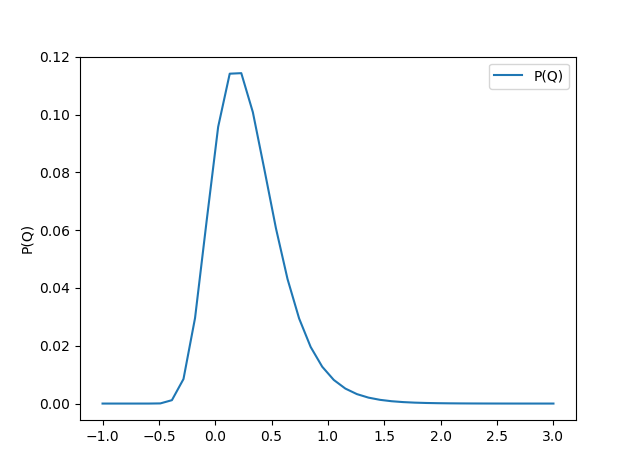
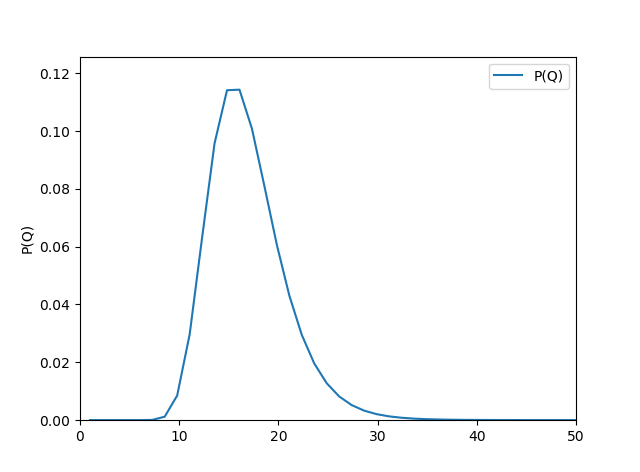
new plots & garbage removal
removed commented out and depricated code.
Made the P(n)/P(Q) plots look better

diff --git a/COBE-DMR/cmb_likelihood_utils.py b/COBE-DMR/cmb_likelihood_utils.py
@@ -1,19 +1,4 @@
-# ****************************************************************
-#       Utility module for cmb_likelihood.py
-# ****************************************************************
-#
-#   The module contains the following functions, usage being
-#   returned_quantity = function(arguments)
-#
-#      N_cov    = get_noise_cov(rms)
-#      F_cov    = get_foreground_cov(x,y,z)
-#      C_ell    = get_C_ell_model(Q,n,lmax)
-#      polys    = get_legendre_coeff(lmax)
-#      P_ell_ij = get_legendre_mat(lmax,x,y,z)
-#      S_cov    = get_signal_cov()
-#      lnL      = get_lnL()
-#
-#
+# Utility module for cmb_likelihood.py
 
 
 import numpy as np
@@ -49,13 +34,9 @@ def get_foreground_cov(x,y,z):
 
 def get_C_ell_model(Q,n,lmax):
     """
-    To be completed:
     Recursively compute a model power spectrum, C_ell, given the amplitude and
     spectral index parameters Q and n, on the range ell in [0,lmax],
     but with monopole and dipole terms set to 0.
-    #C_ell[l] = gamma(l + ((n-1.0)/2.0))/gamma(l+((5.0-n)/2.0))
-    #C_ell = C_ell*(4.0*np.pi/5.0)*(Q**2)*(gamma((9.0-n)/2.0)/gamma((3.0+n)/2.0))
-    #C_ell[2] = ((4.0*np.pi)/(5.0*Q**4))
     """
     # 1: Define array for power spectrum
     C_ell = np.zeros(lmax+1)
@@ -106,40 +87,15 @@ def get_legendre_mat(lmax,x,y,z):
 
 def get_signal_cov(C_ell, beam, pixwin, p_ell_ij):
     '''
-    To be completed:
     Compute a (ndata,ndata) signal covariance matrix using the
     model power spectrum, instrument beam and pixel window function, and
     precomputed Legendre polynomials as input
 
-    Hint: This can be done using a triple for-loop, but it is not necessary.
-    Using NumPy array operations may get you a significant speed-up.
-    # 1: Compute all the elements of the sum over ell, as arrays     
-    # 2: Assemble a single array with all the ell terms which are independent of (i,j)        
-    # 3: Compute the covariance matrix by an appropriate inner product
- 
- 
-    #First self-made method
-    #S_cov = np.zeros((len(p_ell_ij),len(p_ell_ij[0])))#np.zeros_like(p_ell_ij[:,:,0])
-    #for l in range(lmax):
-    #    S_cov[:,:] += (2*l+1)*(beam[l]*pixwin[l])**2*C_ell[l]*p_ell_ij[:,:,l] #S_l[l]*
-
-    #hans-petter's method
-    #S_cov = np.zeros_like(p_ell_ij[:,:,0])
-    #l = np.arange(lmax+1)
-    #for l in range(lmax):
-    #    S_cov[:,:] += (2.*l + 1.)*(np.power(beam[l]*pixwin[l],2))*C_ell[l]*p_ell_ij[:,:,l]
-
-    #daniel's method
-    S_cov = np.zeros_like(p_ell_ij[:,:,0])    
-    for i,j in zip(range(len(p_ell_ij)),range(len(p_ell_ij[0]))): #zip(range(p_ell_ij.shape[0]),range(p_ell_ij.shape[1])):
-        for l in range(lmax):
-            S_cov[i,j] += (2*l + 1)*(beam[l]*pixwin[l])**2*C_ell[l]*p_ell_ij[i,j,l] 
-    
     '''
     lmax = len(C_ell)      
     ll = np.arange(lmax)
 
-    ell_dep_array = (2*ll + 1)*(beam*pixwin)**2*C_ell#np.array([((2*ell + 1)*(beam*pixwin)**2*C_ell),]*(p_ell_ij.shape[1])) 
+    ell_dep_array = (2*ll + 1)*(beam*pixwin)**2*C_ell #np.array([((2*ell + 1)*(beam*pixwin)**2*C_ell),]*(p_ell_ij.shape[1])) 
     S_cov = np.einsum('ijl,...l->ij',p_ell_ij,ell_dep_array)
 
     #print S_cov
@@ -148,28 +104,12 @@ def get_signal_cov(C_ell, beam, pixwin, p_ell_ij):
 
 def get_lnL(data, cov):
     '''
-    To be completed:
     Compute the quantity -2*lnL using the complete covariance matrix
     C = S+N+F, and the input data vector.
 
-    Hint: This can be done directly by inverting the covariance matrix
-    and computing a determinant, calling suitable NumPy or SciPy routines.
-    Significant speedup can be gained by rather using the Cholesky decomposition
-    method discussed in the project description notes.
-     
-    #depricated
-    #L = np.array(L)
-    #c = np.mean(np.diag(L))
-    #L = L/c
-    #print c
-    #print len(L[0])*np.log(c)
-    
-    #detA = 2*np.linalg.slogdet(L)[1]
-    #detA = len(L[0])*np.log(c)*detL
-    #detA = detA**2
     '''
  
-    # 1: Cholesky-decompose C into a lower triangular matrix L, using scipy.linalg.cholesky
+    # 1: Cholesky-decompose C into a lower triangular matrix L
     L = spl.cholesky(cov, lower=True)
 
     # 2: Compute log(det(C)) from L
@@ -184,12 +124,9 @@ def get_lnL(data, cov):
     chi_inv = np.dot(np.transpose(x),x)
     chi_sq = np.dot(np.dot(np.transpose(data),chi_inv),data)
 
-    print "chi_sq = ",chi_sq
-    
-    #if not -1e3<chi_sq<8e4:
-    #    print "There may be something wrong, got chi value of %g" %chi_sq
-        
+    #print "chi_sq = ",chi_sq
+      
     result = chi_sq + detA
-    print "lnL=",result
+    #print "lnL=",result
     return result
 

diff --git a/COBE-DMR/plot_contours.py b/COBE-DMR/plot_contours.py
@@ -1,9 +1,4 @@
-# Simple contour plotting script for visualizing the lnL computed by
-# cmb_likelihood.py. 
-# For convenience, it takes as input either the .npy file or the .dat file.
-# In the .dat case you also have to supply the number of grid points in each 
-# direction so that we can define the grid correctly.
-
+# Simple contour plotting script for visualizing the lnL computed by cmb_likelihood.py. 
 import numpy as np
 import matplotlib.pyplot as plt
 import sys
@@ -38,8 +33,7 @@ if __name__ == "__main__":
 
     # For a Gaussian distribution, the 1, 2 and 3 sigma (68%, 95% and
     # 99.7%) confidence regions correspond to where -2 lnL increases by
-    # 2.3, 6.17 and 11.8 from its minimum value. 0.1 is close to the
-    # peak. 
+    # 2.3, 6.17 and 11.8 from its minimum value. 0.1 is close to the peak. 
     my_levels = [0.1, 2.3, 6.17, 11.8]
     cs = plt.contour(qgrid,ngrid, -2.*lnL, levels=my_levels) #, colors='k'
     plt.grid()
@@ -55,32 +49,28 @@ if __name__ == "__main__":
 
     
     
-    # exponentiate, and subtract off the biggest
-    # value to avoid overflow and find P(d| Q,n)    
+    # exponentiate, and subtract off the biggest value to avoid overflow
     P = np.exp(lnL_init-np.max(lnL_init))  
-    dn = n_values[1] - n_values[0]
-    dQ = Q_values[1] - Q_values[0]
+    dn = n_values[1] - n_values[0] #(n_values[len(n_values)-1] - n_values[0])/len(n_values)
+    dQ = Q_values[1] - Q_values[0] #(Q_values[1] - Q_values[0])/len(Q_values)
     
     # Normalize to unit integral    
     P = P / (np.sum(P)*dn*dQ)    
     
-    # Compute marginal distribution, P(n|d)
-    n_num = len(n_values)
-    P_n = np.zeros(n_num)
-    P_Q = np.zeros(n_num)
-    for i in range(0, n_num):
-        # integrate to get P_n, for P_Q be sure to integrate
-        # over the other dimension in P!
+    # Compute marginal distribution, P(n|d) 
+    P_n = np.zeros(len(n_values))
+    P_Q = np.zeros(len(Q_values))
+    for i in range(0, len(n_values)):
         P_n[i] = np.sum(P[:,i])  
         P_Q[i] = np.sum(P[i,:])
     
-    # We now normalize (note the dn - replace for P_Q!)   
+    # We now normalize 
     P_n = P_n / (sum(P_n) * dn)  
     P_Q = P_Q / (sum(P_Q) * dQ)  
     
     # We can now compute the mean mu and  the uncertainty sigma
     mu_n = sum(P_n * n_values)*dn                    
-    sigma_n = np.sqrt(sum(P_n * (n_values-mu_n)**2)*dn)                 
+    sigma_n = np.sqrt(sum(P_n*(n_values-mu_n)**2)*dn)                 
     print "   mu_n =",mu_n  
     print "sigma_n =",sigma_n,"\n"
     
@@ -92,9 +82,11 @@ if __name__ == "__main__":
     plt.plot(n_values,P_n)
     plt.xlabel("n") 
     plt.ylabel("P(n)") 
+    plt.axis([-1,3, min(P_n), max(P_n)*1.1])
     plt.legend(["P(n)"]) 
     plt.show() 
-    plt.plot(n_values,P_Q)   
+    plt.plot(Q_values,P_Q) 
+    plt.axis([0,50,min(P_Q), max(P_Q)*1.1])  
     plt.ylabel("P(Q)")  
     plt.legend(["P(Q)"]) 
     plt.show() 

diff --git a/COBE-DMR/cmb_likelihood.py b/COBE-DMR/cmb_likelihood.py
@@ -10,8 +10,6 @@ if __name__ == "__main__":
         sys.exit()
 
     # Reading parameters from param file into namespace.
-    # Tip: this is one possible way of using a parameter file in python, allowing you to keep all your run-specific parameters in a separate file, making it easier to keep track of what values you are using and de-cluttering your code.
-    # Disclaimer: This is not an optimal way, just _a_ way. It's unsafe in the sense that there's nothing stopping you from overwriting your parameters within the code, which is bad practice (if they're to be considered constants, at least). Feel free to improve it! 
     namespace={}
     paramfile = sys.argv[1]
     execfile(paramfile,namespace)
@@ -37,7 +35,6 @@ if __name__ == "__main__":
     pixwin = pixwin[0:lmax+1]
 
     # Finished setup of input data
-    # --------------------------------------
     print 'Finished loading data. Now pre-computing noise and foreground covariances'
     N_cov = utils.get_noise_cov(rms)
     F_cov = utils.get_foreground_cov(x,y,z)
@@ -52,7 +49,6 @@ if __name__ == "__main__":
     print 'Time spent on setup: %f seconds'%(time_a - runtime_start)
 
     # Finished precomputation
-    # ---------------------------------------
     print 'Starting likelihood evaluation loop'
 
     # Defining grid based on param file values
@@ -88,8 +84,7 @@ if __name__ == "__main__":
                 print 'Signal cov computation: %f sec'%(time_d - time_c)
                 print 'Loglikelihood computation: %f sec'%(time_e - time_d)
                 print 'In total per grid point: %f sec'%(time_e - time_b)
-                # In-loop printing of lnL, so we have something to look at
-                # even if the job isn't finished
+                # In-loop printing of lnL
                 of = open(resultfile_dat,'a')
                 of.write("%f %f %f\n"%(Q,n,-0.5*lnL[i,j]))
                 of.close()

diff --git a/COBE-DMR/params.py b/COBE-DMR/params.py
@@ -5,7 +5,7 @@ debug_mode = True # or False. debug_mode prints lnL to .dat file in-loop, and pr
 #debug_mode = False
 nside      = 16
 lmax       = 47
-band       = 90 # or 90, in GHz
+band       = 53 # or 90, in GHz
 #band       = 90
 
 # Grid specifications
